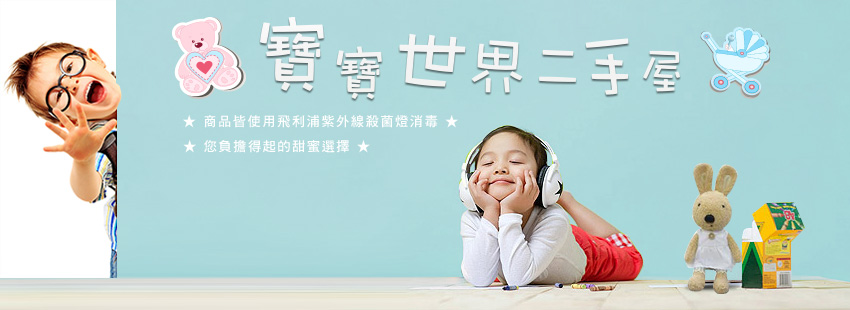
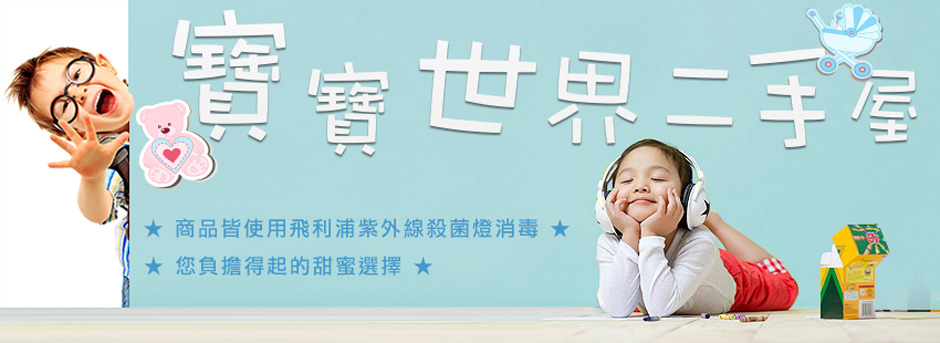
Update assets

diff --git a/app/assets/stylesheets/common/products/consignments.css.scss b/app/assets/stylesheets/common/products/consignments.css.scss
@@ -14,5 +14,8 @@ h2.title, h2.value { display: inline-block; }
 
 img.banner {
   display: block;
-  margin: 0 auto;
+  margin-bottom: 15px;
+  margin-left: 20px;
 }
+
+#main-nav .navbar-inner { padding: 3px; }

diff --git a/app/assets/stylesheets/common/common.css.scss b/app/assets/stylesheets/common/common.css.scss
@@ -1,0 +1,5 @@
+section.proccess {
+  background-color: white;
+  height: 472px;
+  background-image: image-url('proccess.png');
+}

diff --git a/config/routes.rb b/config/routes.rb
@@ -11,6 +11,8 @@ Babysworld::Application.routes.draw do
   get '/about', to: 'welcome#about'
   get '/terms', to: 'welcome#terms'
   get '/user_consignment', to: 'welcome#user_consignment'
+  get '/consignment_about', to: 'welcome#consignment_about'
+  get '/faq', to: 'welcome#faq'
 
   get 'tags/:tag', to: 'products#index', as: :tag
 

diff --git a/app/controllers/welcome_controller.rb b/app/controllers/welcome_controller.rb
@@ -10,4 +10,10 @@ class WelcomeController < ApplicationController
 
   def user_consignment
   end
+
+  def consignment_about
+  end
+
+  def faq
+  end
 end
